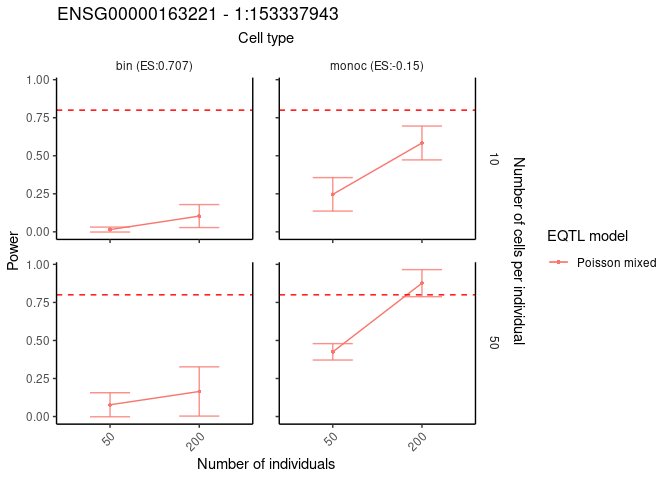
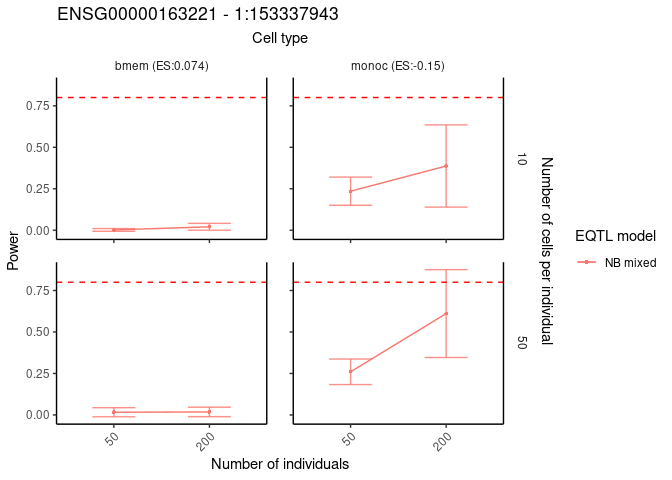
Updated README

diff --git a/README.md b/README.md
@@ -221,49 +221,25 @@ plotReducedDim(simu_sce, "UMAP", color_by = "cell_type")
 
 Lastly, scDesignPop can perform simulation-based power analysis for a
 specific gene-SNP pair across cell types using the `runPowerAnalysis`
-function.
+function. Here, we choose the negative binomial mixed model using `"nb"`
+option.
 
 ``` r
-set.seed(123)
-power_data <- runPowerAnalysis(marginal_list = marginal_list,
-                               marginal_model = "nb",
-                               geneid = "ENSG00000163221",
-                               snpid = "1:153337943",
-                               type_specific = "cell_type",
-                               type_vector = c("bin","monoc"),
-                               methods = c("poisson"),
-                               nindivs = c(50,200),
-                               ncells = c(10,50),
-                               alpha = 0.05,
-                               power_nsim = 100,
-                               snp_number = 10,
-                               gene_number = 800,
-                               CI_nsim = 1000,
-                               CI_conf = 0.05,
-                               ncores = 50L)
-#> [1] -5.617274
-#> [1] 0.7067439
-#> [1] 1.848063
-#> [1] -0.1496348
-```
-
-``` r
-
 head(power_data)
-#>        power nindiv ncell    mean         sd     ci1  ci2 intercept      slope
-#> 2.5%    0.06     50    10 0.01489 0.01613841 0.00000 0.05 -5.617274  0.7067439
-#> 2.5%1   0.24     50    50 0.07736 0.07898905 0.00000 0.24 -5.617274  0.7067439
-#> 2.5%2   0.22    200    10 0.10363 0.07555019 0.01000 0.26 -5.617274  0.7067439
-#> 2.5%3   0.68    200    50 0.16471 0.16183110 0.05000 0.62 -5.617274  0.7067439
-#> 2.5%4   0.46     50    10 0.24644 0.11004925 0.11000 0.50  1.848063 -0.1496348
-#> 2.5%11  0.53     50    50 0.42511 0.05393605 0.32975 0.54  1.848063 -0.1496348
-#>        celltype        method
-#> 2.5%        bin Poisson mixed
-#> 2.5%1       bin Poisson mixed
-#> 2.5%2       bin Poisson mixed
-#> 2.5%3       bin Poisson mixed
-#> 2.5%4     monoc Poisson mixed
-#> 2.5%11    monoc Poisson mixed
+#>        power nindiv ncell    mean          sd  ci1     ci2 intercept
+#> 2.5%    0.04     50    10 0.00203 0.008175937 0.00 0.02025 -4.760502
+#> 2.5%1   0.07     50    50 0.01630 0.027350650 0.00 0.09000 -4.760502
+#> 2.5%2   0.07    200    10 0.02087 0.020745445 0.00 0.07000 -4.760502
+#> 2.5%3   0.06    200    50 0.01814 0.028480722 0.00 0.09000 -4.760502
+#> 2.5%4   0.49     50    10 0.23558 0.084928655 0.12 0.43000  1.848063
+#> 2.5%11  0.50     50    50 0.26005 0.076962463 0.15 0.48000  1.848063
+#>              slope celltype   method
+#> 2.5%    0.07402542     bmem NB mixed
+#> 2.5%1   0.07402542     bmem NB mixed
+#> 2.5%2   0.07402542     bmem NB mixed
+#> 2.5%3   0.07402542     bmem NB mixed
+#> 2.5%4  -0.14963478    monoc NB mixed
+#> 2.5%11 -0.14963478    monoc NB mixed
 ```
 
 ## Step 9: visualizing power results
@@ -273,7 +249,7 @@ The power analysis results can be visualized using the
 
 ``` r
 visualizePowerResult(power_result = power_data,
-                     celltypes = c("bin", "monoc"),
+                     celltypes = c("bmem", "monoc"),
                      x_axis = "nindiv",
                      y_axis = "ncell",
                      col_group = "method",
